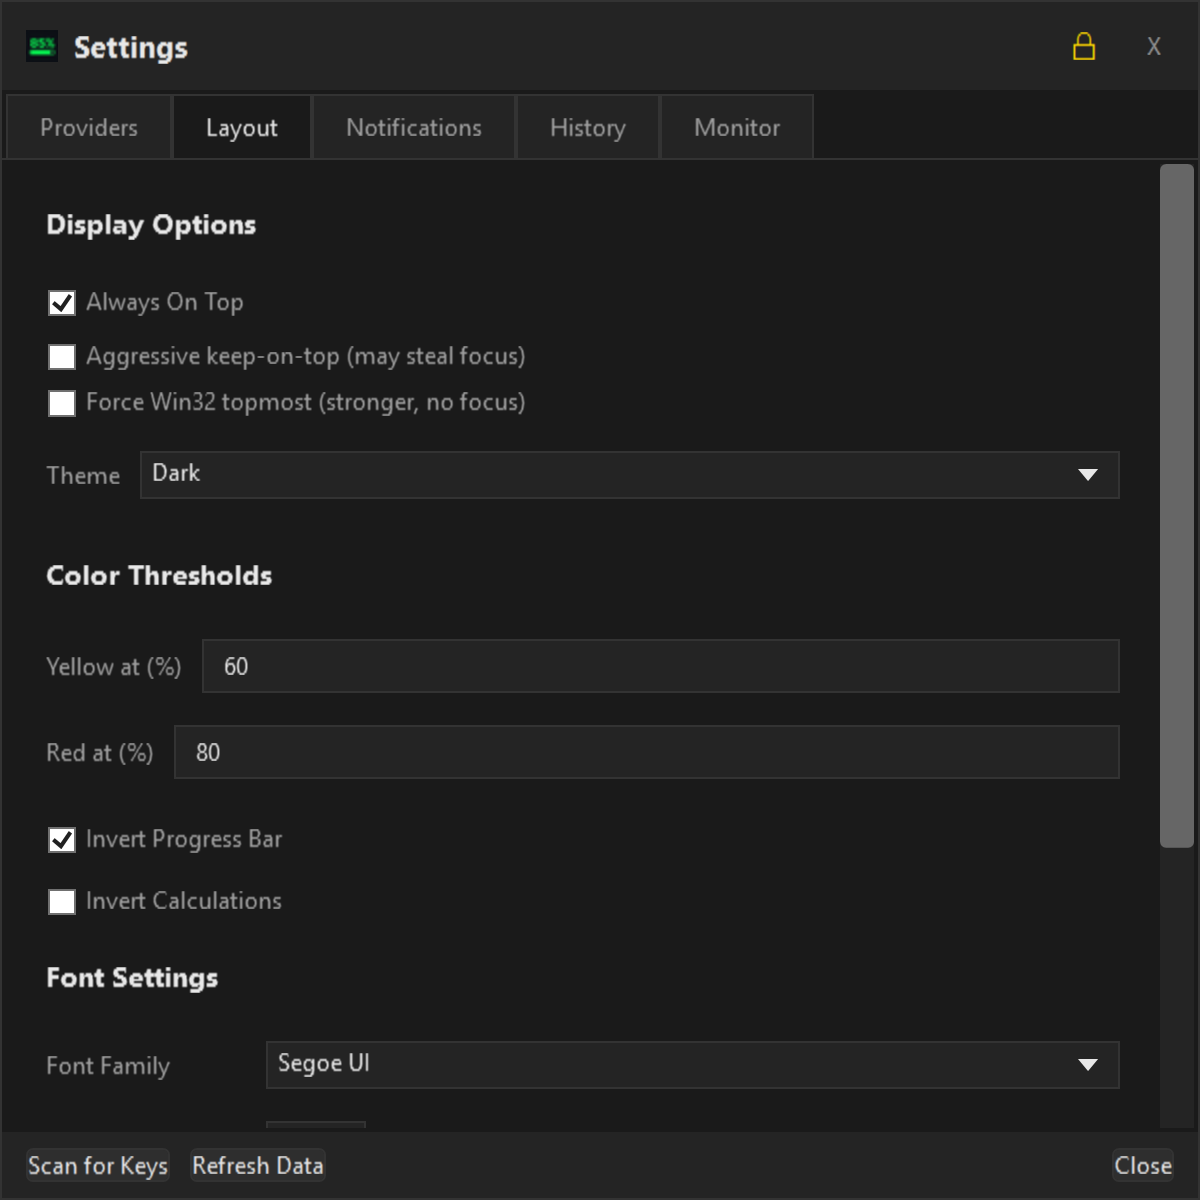
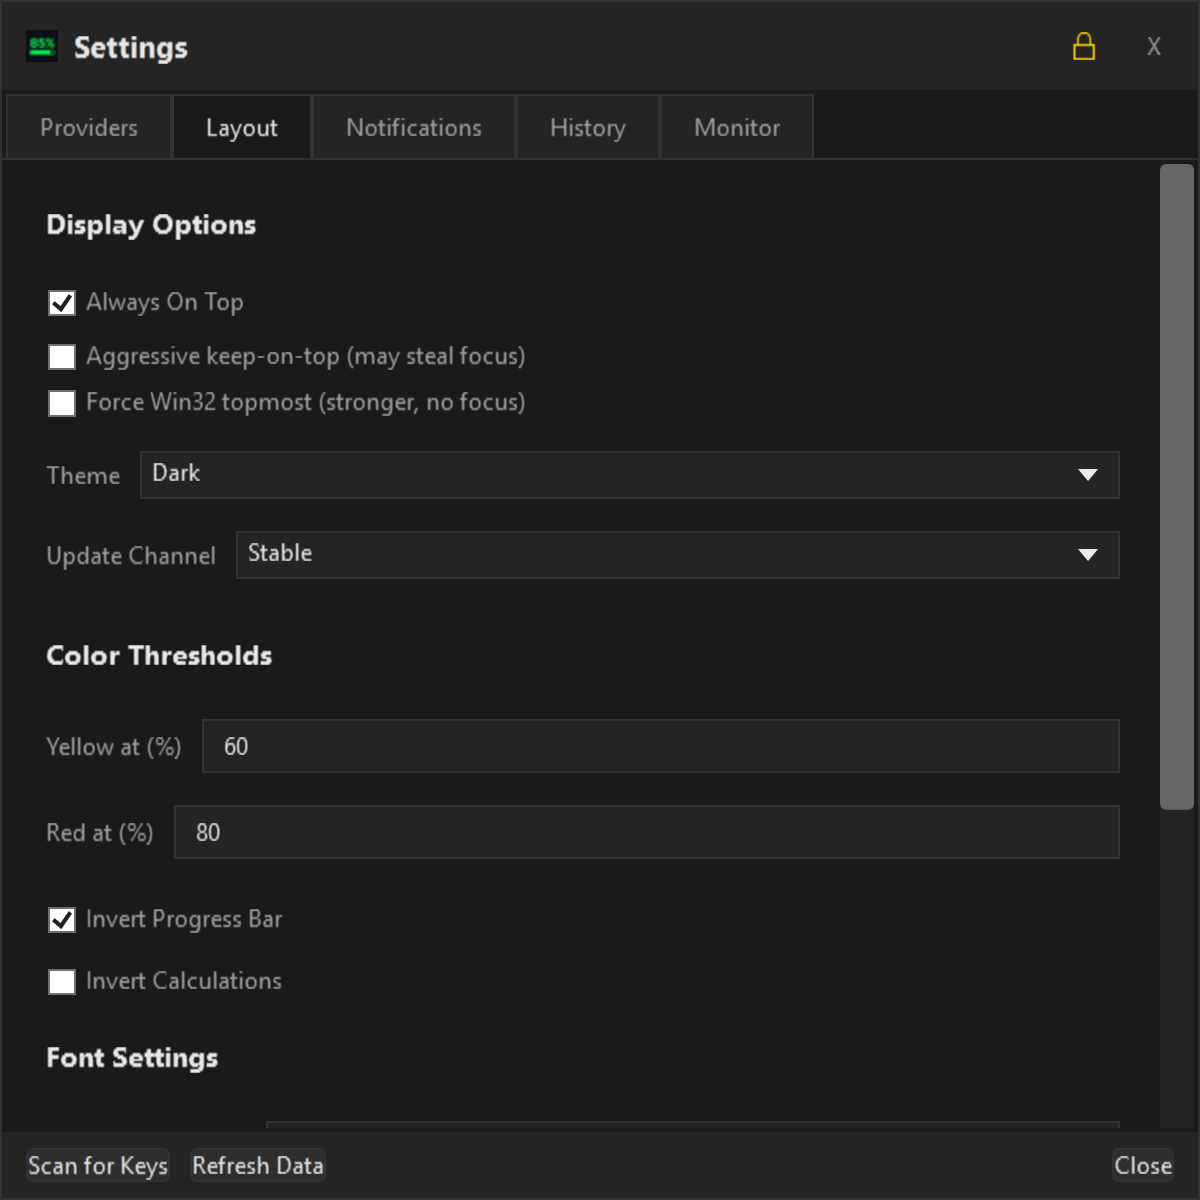
feat(ui): add update channel selector to settings (#176)
* feat(ui): add update channel selector to settings

- Add UpdateChannel ComboBox (Stable/Beta) to Settings window

- Populate and save update channel preference

- Reinitialize update checker when settings change

* fix: embed app icon as resource instead of content

* fix: embed app icon as resource in all projects

- Add EmbeddedResource for icon in Web, Monitor, and CLI projects

- Fixes app icon not showing in Task Manager

* fix: include icon as both Content and EmbeddedResource

(cherry picked from commit 3ab9a5d5eddc3c51e4b1f733dbfd054b5f78af6b)

* chore: sync screenshots after adding Update Channel selector

---------

diff --git a/AIUsageTracker.UI.Slim/SettingsWindow.xaml b/AIUsageTracker.UI.Slim/SettingsWindow.xaml
@@ -327,6 +327,21 @@
                                            Height="24"/>
                             </Grid>
 
+                            <Grid Margin="0,8">
+                                <Grid.ColumnDefinitions>
+                                    <ColumnDefinition Width="Auto"/>
+                                    <ColumnDefinition Width="*"/>
+                                </Grid.ColumnDefinitions>
+                                <TextBlock Text="Update Channel" VerticalAlignment="Center"
+                                           Foreground="{DynamicResource SecondaryText}" Margin="0,0,10,0"/>
+                                <ComboBox x:Name="UpdateChannelCombo" Grid.Column="1"
+                                          SelectionChanged="UpdateChannelCombo_SelectionChanged"
+                                          Background="{DynamicResource ControlBackground}"
+                                          Foreground="{DynamicResource PrimaryText}"
+                                           BorderBrush="{DynamicResource ControlBorder}"
+                                           Height="24"/>
+                            </Grid>
+
                             <!-- Color Thresholds -->
                             <TextBlock Text="Color Thresholds" FontWeight="Bold" FontSize="14" 
                                        Margin="0,20,0,15" Foreground="{DynamicResource PrimaryText}"/>

diff --git a/AIUsageTracker.UI.Slim/SettingsWindow.xaml.cs b/AIUsageTracker.UI.Slim/SettingsWindow.xaml.cs
@@ -1567,6 +1567,16 @@ public partial class SettingsWindow : Window
         ThemeCombo.SelectedValuePath = nameof(ThemeOption.Value);
         ThemeCombo.ItemsSource = GetThemeOptions();
         ThemeCombo.SelectedValue = _preferences.Theme;
+        
+        UpdateChannelCombo.ItemsSource = new[] 
+        { 
+            new { Label = "Stable", Value = UpdateChannel.Stable },
+            new { Label = "Beta", Value = UpdateChannel.Beta }
+        };
+        UpdateChannelCombo.DisplayMemberPath = "Label";
+        UpdateChannelCombo.SelectedValuePath = "Value";
+        UpdateChannelCombo.SelectedValue = _preferences.UpdateChannel;
+        
         EnableWindowsNotificationsCheck.IsChecked = _agentPreferences.EnableNotifications;
         NotificationThresholdBox.Text = _agentPreferences.NotificationThreshold.ToString("0.#");
         NotifyUsageThresholdCheck.IsChecked = _agentPreferences.NotifyOnUsageThreshold;
@@ -2078,6 +2088,11 @@ public partial class SettingsWindow : Window
                 App.ApplyTheme(appTheme);
             }
 
+            if (UpdateChannelCombo.SelectedValue is UpdateChannel channel)
+            {
+                _preferences.UpdateChannel = channel;
+            }
+
             if (int.TryParse(YellowThreshold.Text, out var yellow))
             {
                 _preferences.ColorThresholdYellow = yellow;
@@ -2187,6 +2202,20 @@ public partial class SettingsWindow : Window
         {
             _preferences.Theme = appTheme;
             App.ApplyTheme(appTheme);
+            ScheduleAutoSave();
+        }
+    }
+
+    private void UpdateChannelCombo_SelectionChanged(object sender, SelectionChangedEventArgs e)
+    {
+        if (_isLoadingSettings)
+        {
+            return;
+        }
+
+        if (UpdateChannelCombo.SelectedValue is UpdateChannel channel)
+        {
+            _preferences.UpdateChannel = channel;
             ScheduleAutoSave();
         }
     }

diff --git a/AIUsageTracker.UI.Slim/MainWindow.xaml.cs b/AIUsageTracker.UI.Slim/MainWindow.xaml.cs
@@ -2293,6 +2293,11 @@ public partial class MainWindow : Window
         {
             // Reload preferences and refresh data
             await InitializeAsync();
+            // Reapply preferences to update channel selector
+            if (_preferencesLoaded)
+            {
+                ApplyPreferences();
+            }
         }
     }
 
